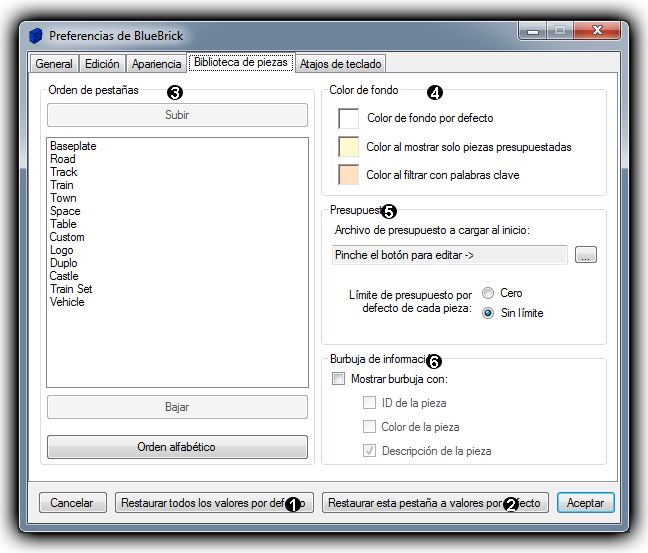
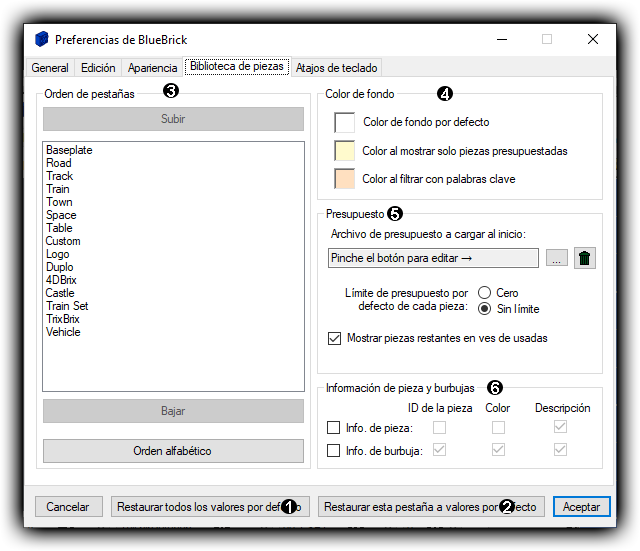
| update PNG for the Part Library preference for all languages | minor update for the Part Library preference doc

diff --git a/Help/es/Preferences_Part_Library.htm b/Help/es/Preferences_Part_Library.htm
@@ -1,27 +1,27 @@
-<HTML>
-<HEAD>
-<!-- Inserted by TRADOS: --><META HTTP-EQUIV="content-type" CONTENT="text/html; charset=windows-1252">
+<html>
+<head>
+<meta http-equiv="content-type" content="text/html; charset=utf-8">
+<meta name="keywords" content="BlueBrick, Help">
+<meta name="description" content="The reference documentation for BlueBrick.">
+<meta name="author" content="Alex McKenna">
+<link rel="StyleSheet" href="../BlueBrick.css" type="text/css" media="screen">
+<title>Preferencias de la biblioteca de piezas</title>
+</head>
+<body>
+<h1>Preferencias de la biblioteca de piezas</h1>
+<center><img src="Preferences_Part_Library.png"></center>
 
-<META NAME="keywords" CONTENT="BlueBrick, Help">
-<META NAME="description" CONTENT="The reference documentation for BlueBrick.">
-<META NAME="author" CONTENT="Alex McKenna">
-<LINK REL=StyleSheet HREF="../BlueBrick.css" TYPE="text/css" MEDIA=screen>
-<Title>Preferencias de la biblioteca de piezas</Title>
-</HEAD>
-<BODY>
-<H1>Preferencias de la biblioteca de piezas</H1>
-<BR>
-<CENTER><IMG SRC="Preferences_Part_Library.png"></CENTER>
+<p>El botón <span class="RefNumber">1</span> le permite restaurar todas las preferencias a sus valores por defecto, como cuando instaló BlueBrick por primera vez. El botón <span class="RefNumber">2</span> le permite restaurar sólo las preferencias mostradas en la categoría visible actual.</p>
 
 <P>El <B>orden de tabulaci&oacute;n</B> <span class="RefNumber">3</span> te permite definir en qu&eacute; orden se colocan las categor&iacute;as/carpetas de piezas encima del &aacute;rea de la biblioteca de piezas. De esta manera puedes ordenarlas de izquierda a derecha, de m&aacute;s a menos usado. Esto se puede hacer seleccionando una categor&iacute;a en la lista y usando los botones de flecha arriba y abajo.  El orden de la lista de arriba abajo representa el orden en el que aparecen las tabulaciones de izquierda a derecha. <DIV CLASS="ToTranslate">Pressing the "Alphabetical Order" button will sort the list in alphabetical order.</P>
 
 <p>The <b>Background Color</b> frame <span class="RefNumber">4</span> lets you change the background color of the library window in three situations: first is the default color, then the color that should be used when you have loaded a Budget file and only the budgeted parts are listed (see the <a href="Part_Budget_Using_Budget.htm">Budget</a> section for more details) and finally the color used when you have filtered the library with some keywords (see <a href="Part_Library_How_to_Filter.htm">How to filter the Part Library</a> for more details). In case of both budget and keyword filtering, it is the keyword filter color that will be used. You can set the same color for the three situations if you don't like to see color change.</p>
 
-<p>The <b>Budget</b> frame <span class="RefNumber">5</span> lets you specify a Budget file to load at startup (see the <a href="Part_Budget_Saving_and_Loading_Budget.htm">Budget</a> section for more details). This is very convenient if you have created your own budget file with your actual LEGO<sup>&#174;</sup> set collection. You can also decide if a part that doesn't have a budget set should be considered as having a budget of 0 (meaning, you don't have that part in your collection and therefore should not be authorized to used), or on the contrary having an infinite budget (meaning that you have that part in so huge quantity that you don't bother add a limitation to it).</p>
+<p>The <b>Budget</b> frame <span class="RefNumber">5</span> lets you specify a Budget file to load at startup (see the <a href="Part_Budget_Saving_and_Loading_Budget.htm">Budget</a> section for more details). This is very convenient if you have created your own budget file with your actual LEGO<sup>&#174;</sup> set collection. You can also decide if a part that doesn't have a budget set should be considered as having a budget of 0 (meaning, you don't have that part in your collection and therefore should not be authorized to used), or on the contrary having an infinite budget (meaning that you have that part in so huge quantity that you don't bother add a limitation to it). Finally you can revert the dispay of the part used in the layout by displaying the remaining available parts (regarding your budget) instead of the used parts. For example if you have a budget of 10 for a part, and if you have placed 3 of this part on your layout, checking this option will display 7 instead of 3.</p>
+
+<p><b>Part and Bubble Information</b> frame <span class="RefNumber">6</span> allows you to choose the information displayed under the part in the part library window (the part info) as well as the information you will receive in the "tool tip" messages when you move the mouse over an icon in the parts library window (the bubble info). Note that in order to see the part info or the "tool tip" messages you must activate them by checking the "Part Info:" or "Bubble Info:" checkbox or by right clicking on the part library window and selecting "Part Information" or "Bubble Information".</p>
 
 </div>
 
-<P><B>Informaci&oacute;n de la burbuja</B> <span class="RefNumber">6</span> te permite elegir la informaci&oacute;n que recibir&aacute;s en el &quot;tool tip&quot; al colocar el puntero encima de un icono en el &aacute;rea de la biblioteca de piezas. Nota que para ver los mensajes de &quot;tool tip&quot; hay que activarlos haciendo clic derecho sobre el &aacute;rea de la biblioteca de piezas y seleccionando &quot;Informaci&oacute;n de la burbuja.</P>
-
-</BODY>
-</HTML>
+</body>
+</html>

diff --git a/Help/fr/Preferences_Part_Library.htm b/Help/fr/Preferences_Part_Library.htm
@@ -8,15 +8,17 @@
 </head>
 <body>
 <h1>Part Library Preferences</h1>
-<center><img SRC="Preferences_Part_Library.png"></center>
+<center><img src="Preferences_Part_Library.png"></center>
+
+<p>Le bouton <span class="RefNumber">1</span> vous permet de restaurer toutes les préférences aux valeurs par défaut, comme lorsque vous avez installé BlueBrick pour la première fois. Le bouton <span class="RefNumber">2</span> vous permet de ne restaurer que les préférences affichées sur la catégorie visible actuellement.</p>
 
 <p>The <b>Tab Order</b> frame <span class="RefNumber">3</span> enables you to define in which order the parts folders/categories are placed above the part library window. This way you can sort them from left to right, from most used to least used. This can be done by selecting a category in the list and using the "Move Up" and "Move Down" buttons. The list order from top to bottom represents left to right respectively above the parts library window. Pressing the "Alphabetical Order" button will sort the list in alphabetical order.</p>
 
 <p>The <b>Background Color</b> frame <span class="RefNumber">4</span> lets you change the background color of the library window in three situations: first is the default color, then the color that should be used when you have loaded a Budget file and only the budgeted parts are listed (see the <a href="Part_Budget_Using_Budget.htm">Budget</a> section for more details) and finally the color used when you have filtered the library with some keywords (see <a href="Part_Library_How_to_Filter.htm">How to filter the Part Library</a> for more details). In case of both budget and keyword filtering, it is the keyword filter color that will be used. You can set the same color for the three situations if you don't like to see color change.</p>
 
-<p>The <b>Budget</b> frame <span class="RefNumber">5</span> lets you specify a Budget file to load at startup (see the <a href="Part_Budget_Saving_and_Loading_Budget.htm">Budget</a> section for more details). This is very convenient if you have created your own budget file with your actual LEGO<sup>&#174;</sup> set collection. You can also decide if a part that doesn't have a budget set should be considered as having a budget of 0 (meaning, you don't have that part in your collection and therefore should not be authorized to used), or on the contrary having an infinite budget (meaning that you have that part in so huge quantity that you don't bother add a limitation to it).</p>
+<p>The <b>Budget</b> frame <span class="RefNumber">5</span> lets you specify a Budget file to load at startup (see the <a href="Part_Budget_Saving_and_Loading_Budget.htm">Budget</a> section for more details). This is very convenient if you have created your own budget file with your actual LEGO<sup>&#174;</sup> set collection. You can also decide if a part that doesn't have a budget set should be considered as having a budget of 0 (meaning, you don't have that part in your collection and therefore should not be authorized to used), or on the contrary having an infinite budget (meaning that you have that part in so huge quantity that you don't bother add a limitation to it). Finally you can revert the dispay of the part used in the layout by displaying the remaining available parts (regarding your budget) instead of the used parts. For example if you have a budget of 10 for a part, and if you have placed 3 of this part on your layout, checking this option will display 7 instead of 3.</p>
 
-<p><b>Bubble Information</b> frame <span class="RefNumber">6</span> allows you to choose the information you will receive in the "tool tip" messages when you move the mouse over an icon in the parts library window. Note that in order to see the "tool tip" messages you must activate them by checking the "Display Bubble Info with:" checkbox or by right clicking on the part library window and selecting "Bubble Information".</p>
+<p><b>Part and Bubble Information</b> frame <span class="RefNumber">6</span> allows you to choose the information displayed under the part in the part library window (the part info) as well as the information you will receive in the "tool tip" messages when you move the mouse over an icon in the parts library window (the bubble info). Note that in order to see the part info or the "tool tip" messages you must activate them by checking the "Part Info:" or "Bubble Info:" checkbox or by right clicking on the part library window and selecting "Part Information" or "Bubble Information".</p>
 
 </body>
 </html>

diff --git a/Help/en/Preferences_Part_Library.htm b/Help/en/Preferences_Part_Library.htm
@@ -8,15 +8,17 @@
 </head>
 <body>
 <h1>Part Library Preferences</h1>
-<center><img SRC="Preferences_Part_Library.png"></center>
+<center><img src="Preferences_Part_Library.png"></center>
+
+<p>The button <span class="RefNumber">1</span> let you restore all the preferences to their default values, as when you installed BlueBrick for the first time. The button <span class="RefNumber">2</span> let you restore only the preferences displayed on the current visible category.</p>
 
 <p>The <b>Tab Order</b> frame <span class="RefNumber">3</span> enables you to define in which order the parts folders/categories are placed above the part library window. This way you can sort them from left to right, from most used to least used. This can be done by selecting a category in the list and using the "Move Up" and "Move Down" buttons. The list order from top to bottom represents left to right respectively above the parts library window. Pressing the "Alphabetical Order" button will sort the list in alphabetical order.</p>
 
 <p>The <b>Background Color</b> frame <span class="RefNumber">4</span> lets you change the background color of the library window in three situations: first is the default color, then the color that should be used when you have loaded a Budget file and only the budgeted parts are listed (see the <a href="Part_Budget_Using_Budget.htm">Budget</a> section for more details) and finally the color used when you have filtered the library with some keywords (see <a href="Part_Library_How_to_Filter.htm">How to filter the Part Library</a> for more details). In case of both budget and keyword filtering, it is the keyword filter color that will be used. You can set the same color for the three situations if you don't like to see color change.</p>
 
-<p>The <b>Budget</b> frame <span class="RefNumber">5</span> lets you specify a Budget file to load at startup (see the <a href="Part_Budget_Saving_and_Loading_Budget.htm">Budget</a> section for more details). This is very convenient if you have created your own budget file with your actual LEGO<sup>&#174;</sup> set collection. You can also decide if a part that doesn't have a budget set should be considered as having a budget of 0 (meaning, you don't have that part in your collection and therefore should not be authorized to used), or on the contrary having an infinite budget (meaning that you have that part in so huge quantity that you don't bother add a limitation to it).</p>
+<p>The <b>Budget</b> frame <span class="RefNumber">5</span> lets you specify a Budget file to load at startup (see the <a href="Part_Budget_Saving_and_Loading_Budget.htm">Budget</a> section for more details). This is very convenient if you have created your own budget file with your actual LEGO<sup>&#174;</sup> set collection. You can also decide if a part that doesn't have a budget set should be considered as having a budget of 0 (meaning, you don't have that part in your collection and therefore should not be authorized to used), or on the contrary having an infinite budget (meaning that you have that part in so huge quantity that you don't bother add a limitation to it). Finally you can revert the dispay of the part used in the layout by displaying the remaining available parts (regarding your budget) instead of the used parts. For example if you have a budget of 10 for a part, and if you have placed 3 of this part on your layout, checking this option will display 7 instead of 3.</p>
 
-<p><b>Bubble Information</b> frame <span class="RefNumber">6</span> allows you to choose the information you will receive in the "tool tip" messages when you move the mouse over an icon in the parts library window. Note that in order to see the "tool tip" messages you must activate them by checking the "Display Bubble Info with:" checkbox or by right clicking on the part library window and selecting "Bubble Information".</p>
+<p><b>Part and Bubble Information</b> frame <span class="RefNumber">6</span> allows you to choose the information displayed under the part in the part library window (the part info) as well as the information you will receive in the "tool tip" messages when you move the mouse over an icon in the parts library window (the bubble info). Note that in order to see the part info or the "tool tip" messages you must activate them by checking the "Part Info:" or "Bubble Info:" checkbox or by right clicking on the part library window and selecting "Part Information" or "Bubble Information".</p>
 
 </body>
 </html>
